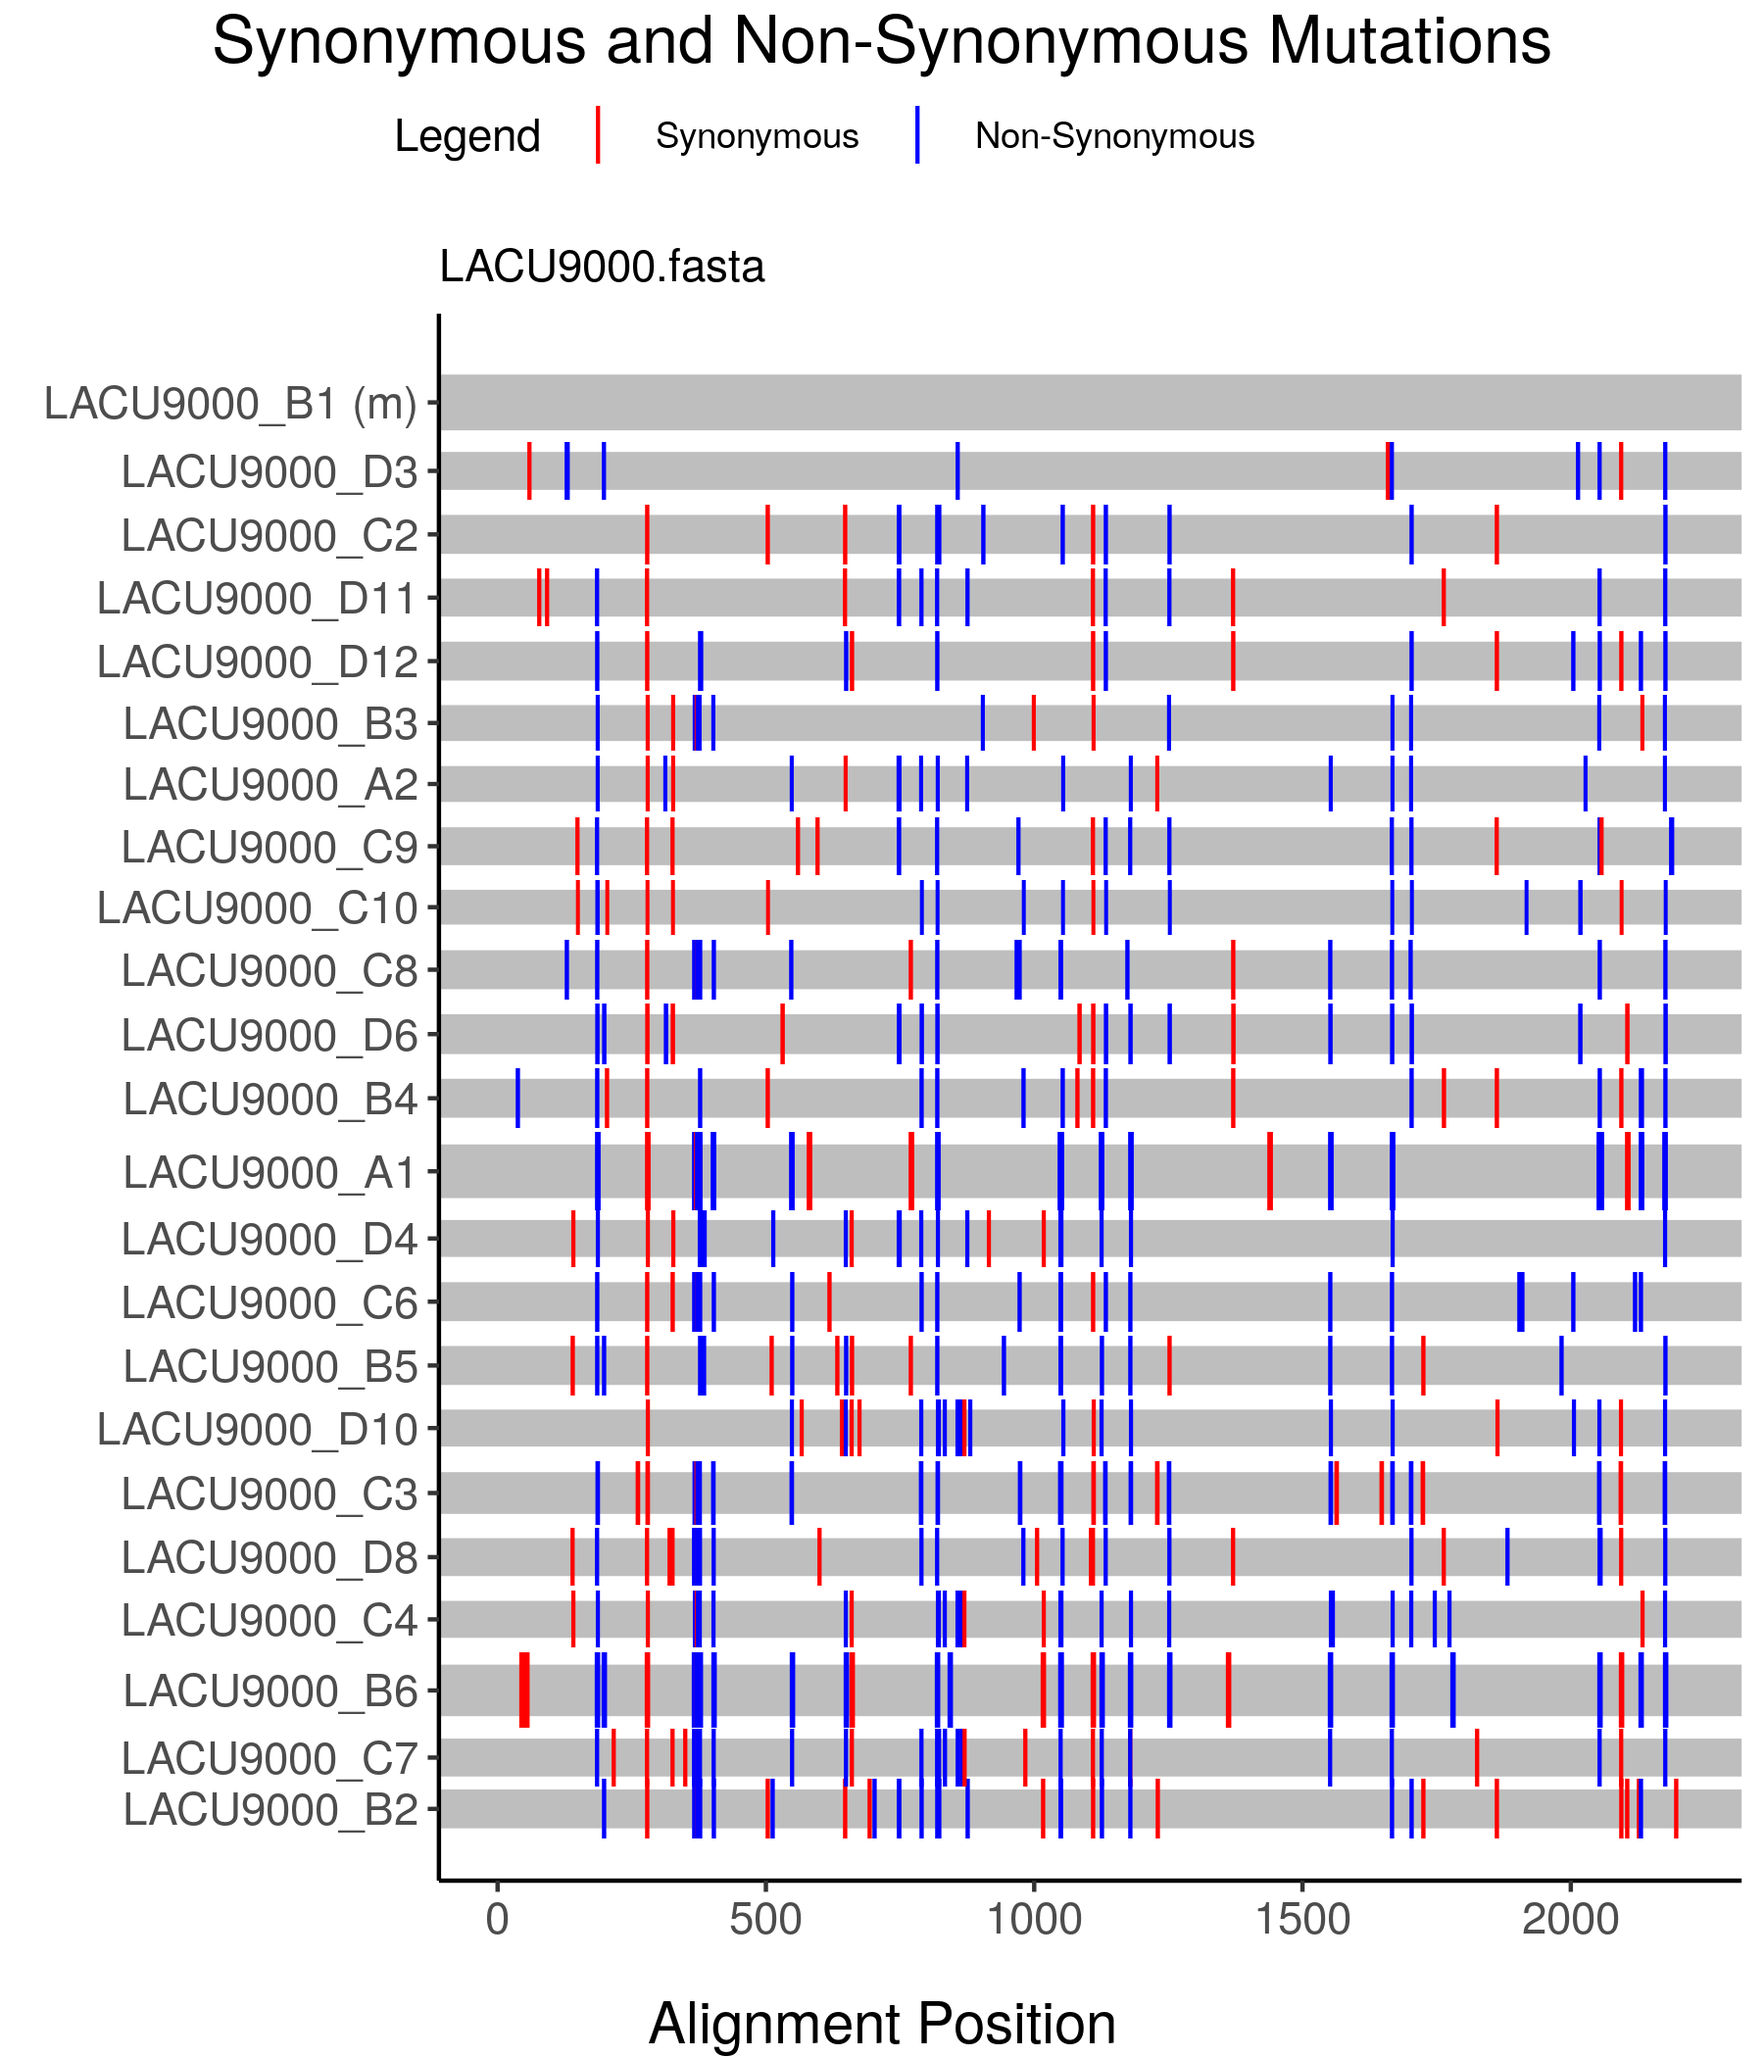
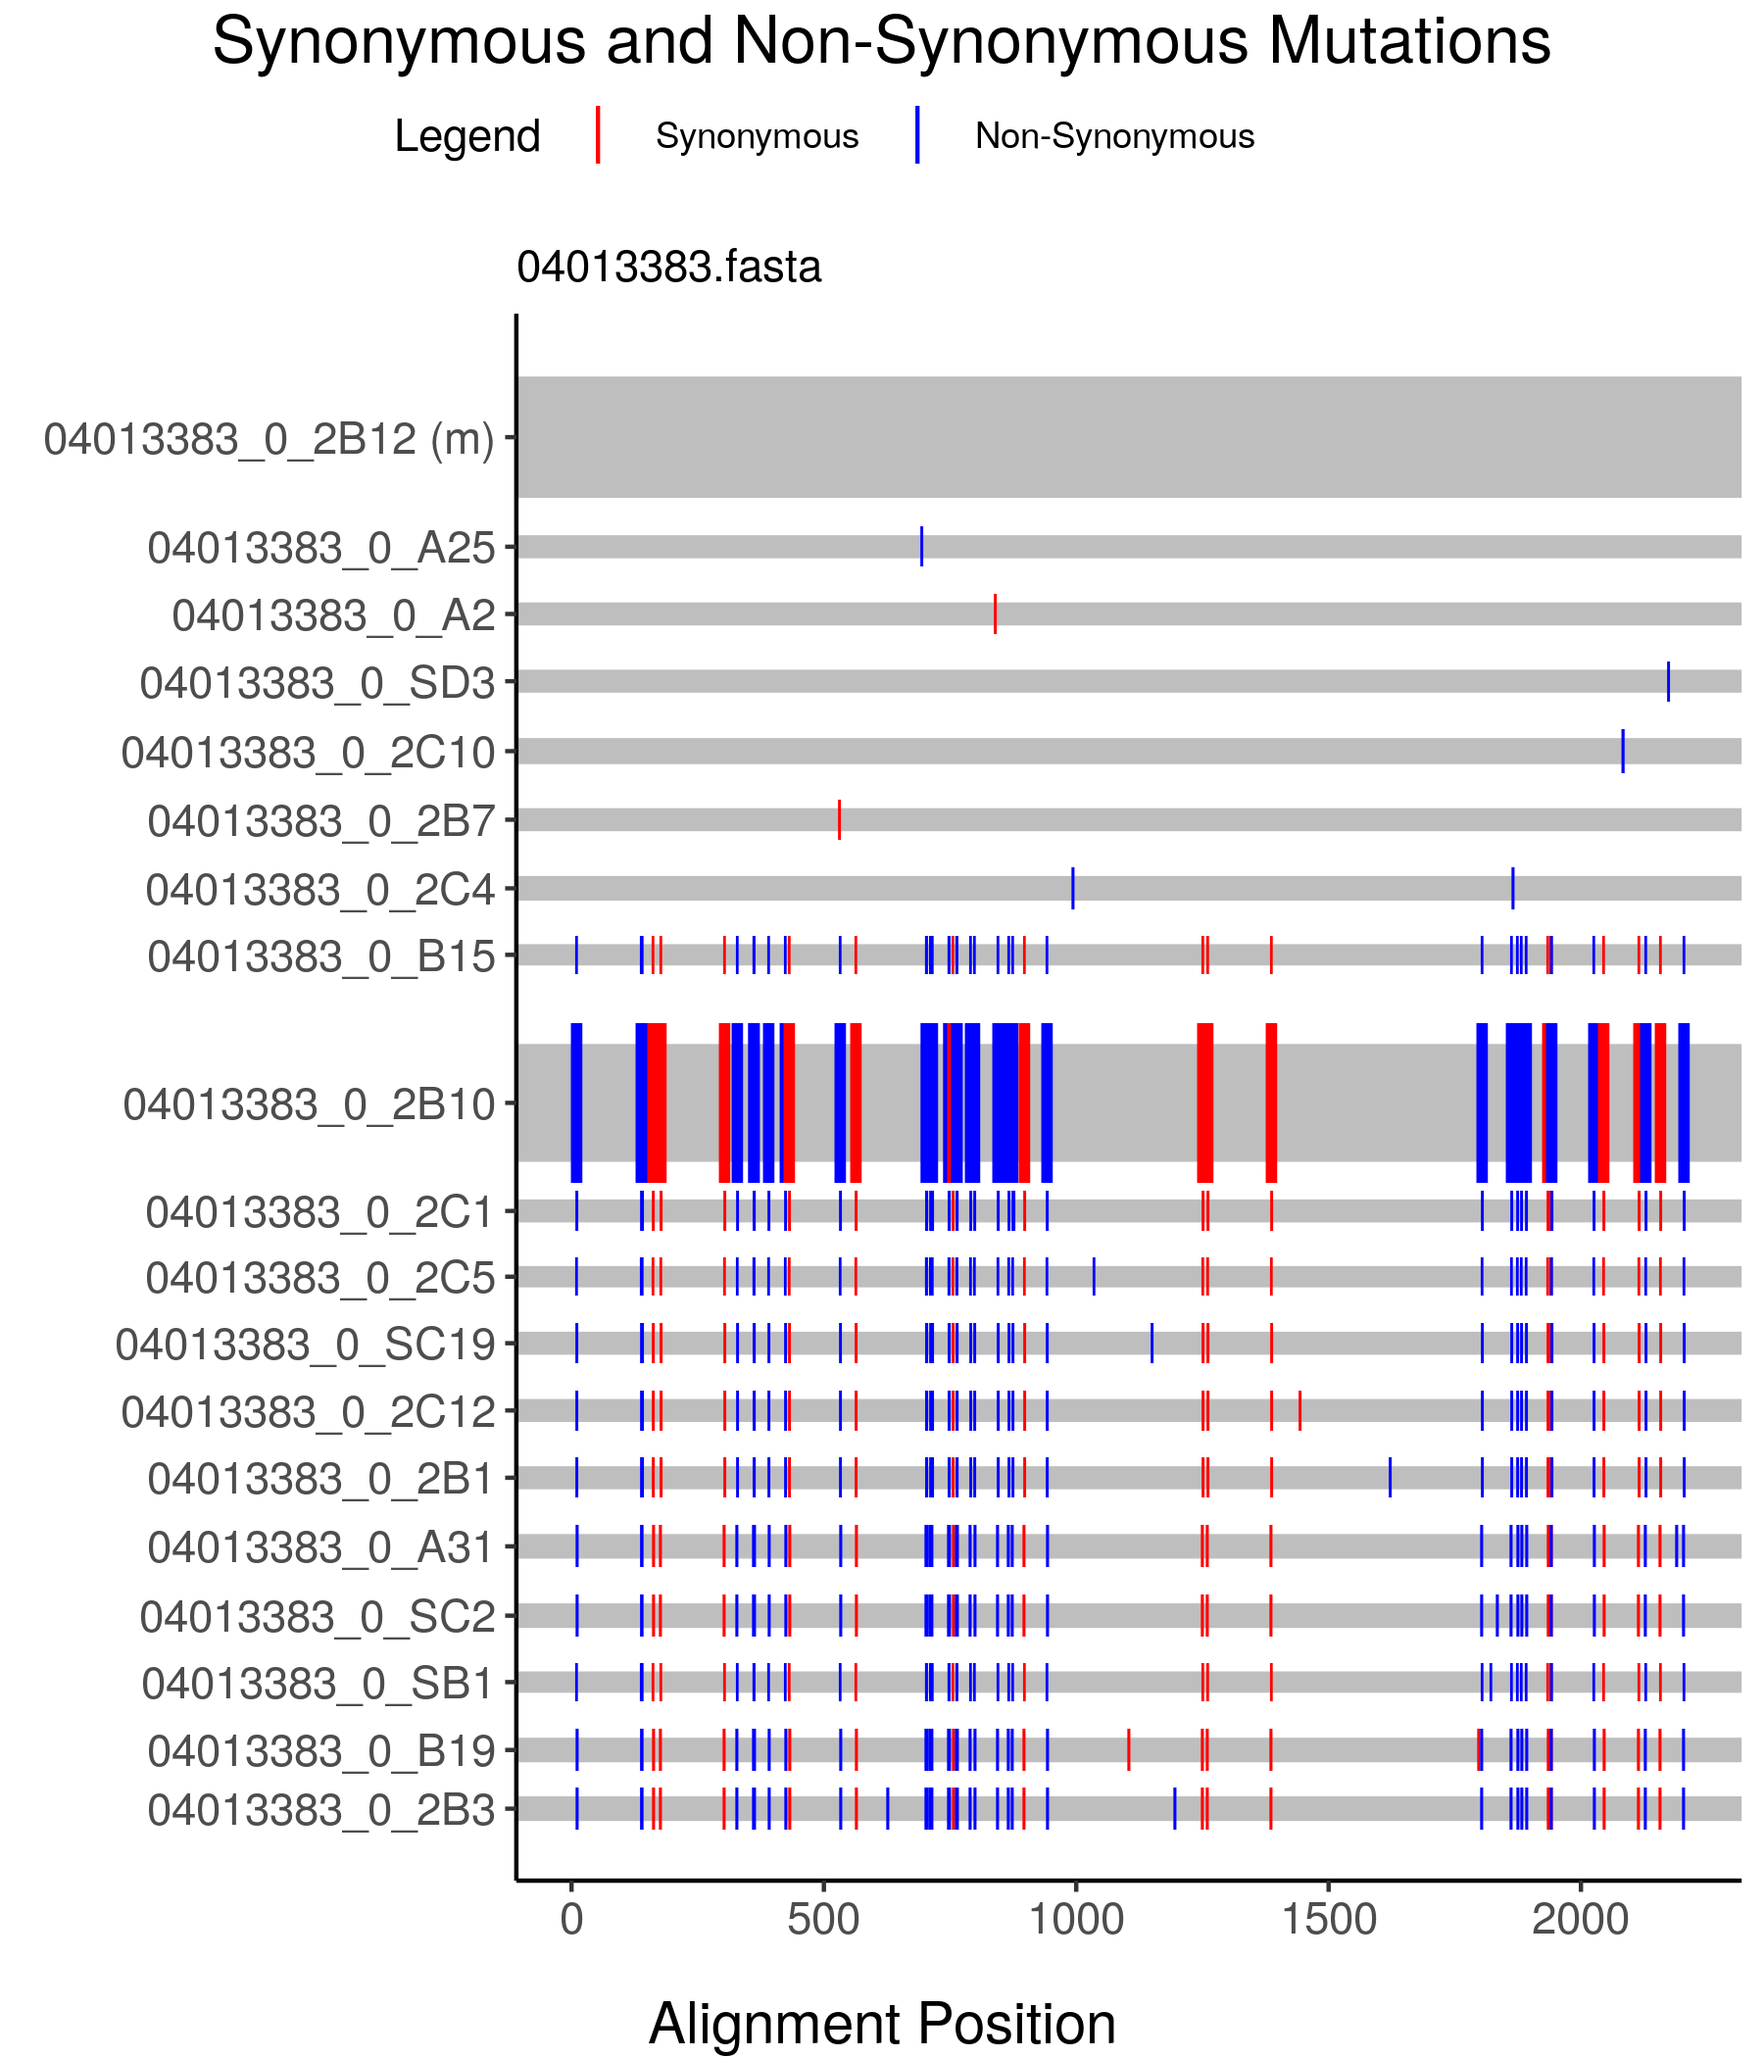
removed data set

diff --git a/README.md b/README.md
@@ -162,7 +162,7 @@ argument.)
 <!-- end list -->
 
 ``` r
-highline(files[5], mode='svn')
+highline(files[2], mode='svn')
 ```
 
 <img src="man/figures/README-unnamed-chunk-4-1.png" width="600" style="display: block; margin: auto;" />
